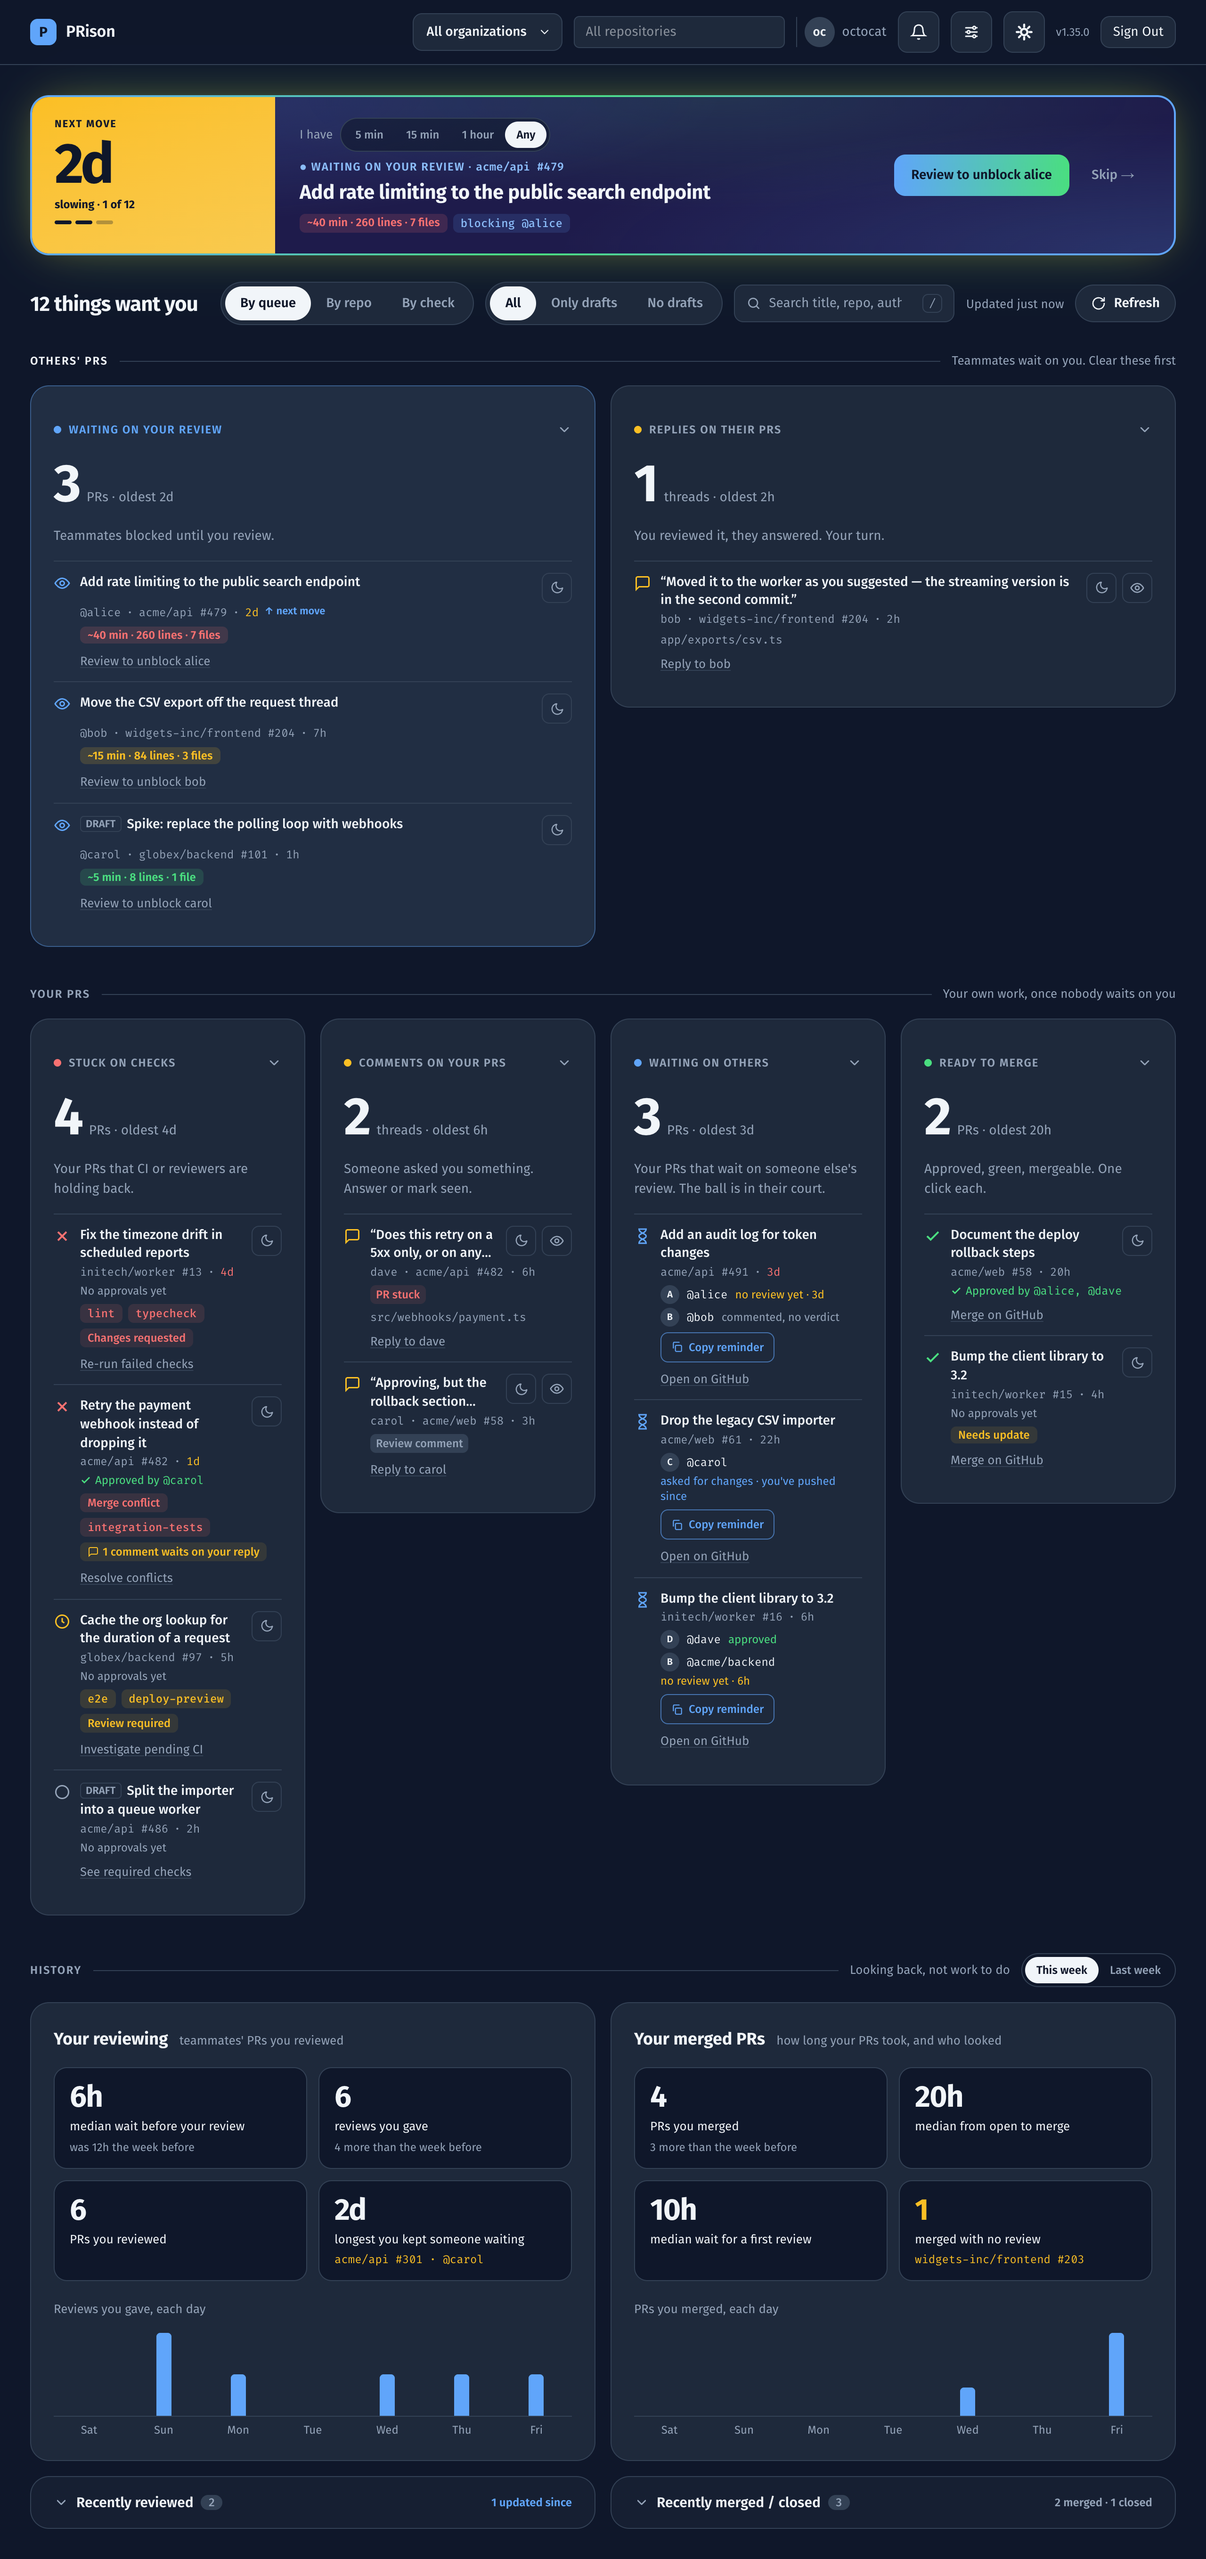
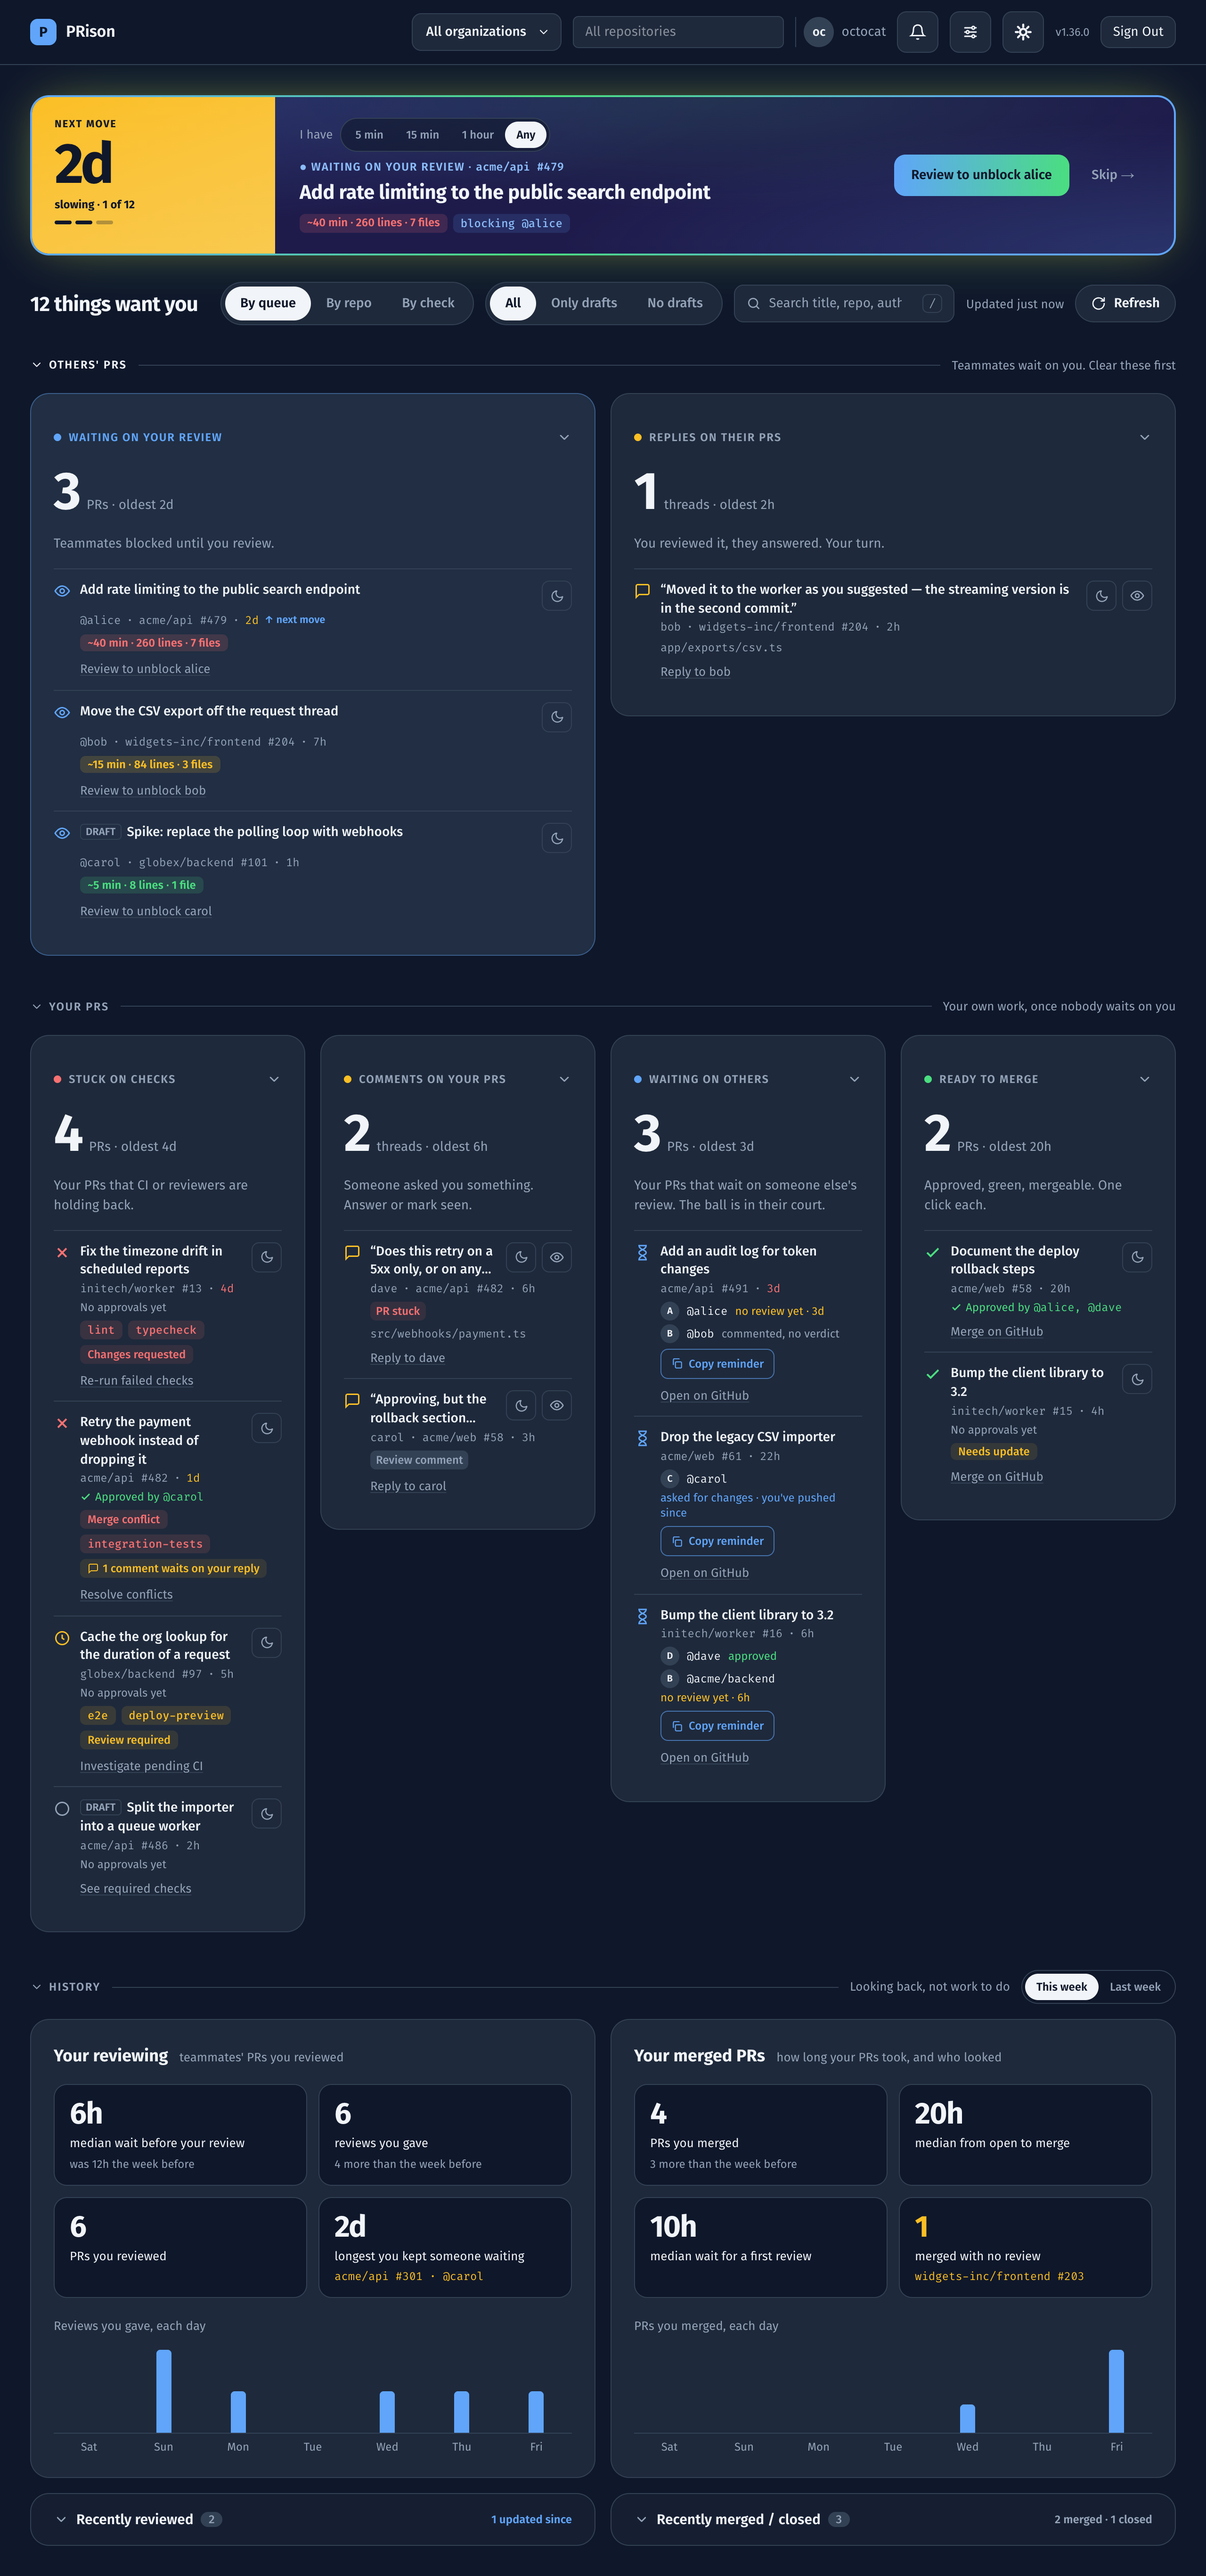
feat: fold the Others' PRs, Your PRs and History sections whole
Each section header is now a toggle, like the history panels, and the
folded sections are remembered across reloads (prison.foldedSides).

diff --git a/components/Dashboard.tsx b/components/Dashboard.tsx
@@ -290,6 +290,8 @@ export function Dashboard({ orgs, login }: DashboardProps) {
   // and reveals a page at a time.
   const [reviewedOpen, setReviewedOpen] = useState(false);
   const [reviewedVisible, setReviewedVisible] = useState(ARCHIVE_PAGE_SIZE);
+  // The three board sides the user folded away ("others", "mine", "history").
+  const [foldedSides, setFoldedSides] = useState<string[]>([]);
   const [partial, setPartial] = useState(false);
   const [isPending, startTransition] = useTransition();
 
@@ -606,6 +608,7 @@ export function Dashboard({ orgs, login }: DashboardProps) {
     const storedIgnored = localStorage.getItem("prison.ignoredChecks");
     const storedClosedOpen = localStorage.getItem("prison.closedOpen");
     const storedReviewedOpen = localStorage.getItem("prison.reviewedOpen");
+    const storedFoldedSides = localStorage.getItem("prison.foldedSides");
     const storedTimeBudget = localStorage.getItem("prison.timeBudget");
     const storedSnoozes = localStorage.getItem("prison.snoozes");
     const storedLimits = localStorage.getItem("prison.limits");
@@ -661,6 +664,10 @@ export function Dashboard({ orgs, login }: DashboardProps) {
       if (storedClosedOpen === "true") {
         setClosedOpen(true);
       }
+      try {
+        const sides: unknown = JSON.parse(storedFoldedSides ?? "[]");
+        if (Array.isArray(sides)) setFoldedSides(sides.filter((x) => typeof x === "string"));
+      } catch {}
       if (storedReviewedOpen === "true") {
         setReviewedOpen(true);
       }
@@ -798,6 +805,11 @@ export function Dashboard({ orgs, login }: DashboardProps) {
     if (!hydrated) return;
     localStorage.setItem("prison.reviewedOpen", String(reviewedOpen));
   }, [reviewedOpen, hydrated]);
+
+  useEffect(() => {
+    if (!hydrated) return;
+    localStorage.setItem("prison.foldedSides", JSON.stringify(foldedSides));
+  }, [foldedSides, hydrated]);
 
   useEffect(() => {
     if (!hydrated) return;
@@ -1476,6 +1488,35 @@ export function Dashboard({ orgs, login }: DashboardProps) {
       />
     </div>
   );
+  // Folds a whole side of the board, like the history panels' headers do.
+  const sideToggle = (key: string, title: string) => {
+    const open = !foldedSides.includes(key);
+    return (
+      <button
+        type="button"
+        aria-expanded={open}
+        aria-controls={`side-${key}`}
+        onClick={() => setFoldedSides((f) => (open ? [...f, key] : f.filter((k) => k !== key)))}
+        className="flex min-h-7 cursor-pointer items-center gap-1.5 rounded-md uppercase transition-colors hover:text-accent focus-visible:ring-2 focus-visible:ring-accent focus-visible:outline-none"
+      >
+        <svg
+          aria-hidden="true"
+          className={`shrink-0 transition-transform ${open ? "" : "-rotate-90"}`}
+          width="14"
+          height="14"
+          viewBox="0 0 24 24"
+          fill="none"
+          stroke="currentColor"
+          strokeWidth="2"
+          strokeLinecap="round"
+          strokeLinejoin="round"
+        >
+          <path d="m6 9 6 6 6-6" />
+        </svg>
+        {title}
+      </button>
+    );
+  };
   return (
     <div className="flex min-h-screen flex-col bg-background">
       <Header
@@ -1730,12 +1771,13 @@ export function Dashboard({ orgs, login }: DashboardProps) {
         <section aria-labelledby="others-heading" className="flex flex-col gap-4">
           <div className="flex items-center gap-3">
             <h2 id="others-heading" className="text-xs font-semibold tracking-[0.1em] text-foreground">
-              OTHERS&apos; PRS
+              {sideToggle("others", "OTHERS' PRS")}
             </h2>
             <span aria-hidden="true" className="h-px flex-1 bg-border" />
             <span className="text-[13px] text-muted">Teammates wait on you. Clear these first</span>
           </div>
-          <div className="grid grid-cols-1 items-start gap-4 lg:grid-cols-2">
+          {!foldedSides.includes("others") && (
+          <div id="side-others" className="grid grid-cols-1 items-start gap-4 lg:grid-cols-2">
             <div className="flex flex-col gap-3">
               {budgetSpent === undefined && reviewError && (
                 <div className="flex items-center justify-between rounded-md border border-danger/30 bg-danger/10 px-4 py-3 text-sm text-danger">
@@ -1801,16 +1843,18 @@ export function Dashboard({ orgs, login }: DashboardProps) {
               visible: visibleComments.filter((c) => c.viewerStarted),
             })}
           </div>
+          )}
         </section>
         <section aria-labelledby="mine-heading" className="flex flex-col gap-4 pt-3">
           <div className="flex items-center gap-3">
             <h2 id="mine-heading" className="text-xs font-semibold tracking-[0.1em] text-muted">
-              YOUR PRS
+              {sideToggle("mine", "YOUR PRS")}
             </h2>
             <span aria-hidden="true" className="h-px flex-1 bg-border" />
             <span className="text-[13px] text-muted">Your own work, once nobody waits on you</span>
           </div>
-          <div className="grid grid-cols-1 items-start gap-4 md:grid-cols-2 xl:grid-cols-4">
+          {!foldedSides.includes("mine") && (
+          <div id="side-mine" className="grid grid-cols-1 items-start gap-4 md:grid-cols-2 xl:grid-cols-4">
             <div className="flex flex-col gap-3">
               {budgetSpent === undefined && stuckError && (
                 <div className="flex items-center justify-between rounded-md border border-danger/30 bg-danger/10 px-4 py-3 text-sm text-danger">
@@ -2147,13 +2191,14 @@ export function Dashboard({ orgs, login }: DashboardProps) {
               />
             </div>
           </div>
+          )}
         </section>
         {/* History: looking back, not work to do, so it stays below the work and
             quieter than the columns above on purpose. */}
         <section aria-labelledby="history-heading" className="flex flex-col gap-4 pt-3">
           <div className="flex items-center gap-3">
             <h2 id="history-heading" className="text-xs font-semibold tracking-[0.1em] text-muted">
-              HISTORY
+              {sideToggle("history", "HISTORY")}
             </h2>
             <span aria-hidden="true" className="h-px flex-1 bg-border" />
             <span className="text-[13px] text-muted">Looking back, not work to do</span>
@@ -2175,7 +2220,8 @@ export function Dashboard({ orgs, login }: DashboardProps) {
           </div>
           {/* Two sides, matching the board above: your reviewing on the left,
               your own PRs on the right. One week picker for both. */}
-          <div className="grid grid-cols-1 items-start gap-4 lg:grid-cols-2">
+          {!foldedSides.includes("history") && (
+          <div id="side-history" className="grid grid-cols-1 items-start gap-4 lg:grid-cols-2">
             <div className="flex flex-col gap-4">
               <WeekCard facts={week} now={new Date()} error={weekError} offset={weekOffset} />
               <ArchiveSection
@@ -2270,6 +2316,7 @@ export function Dashboard({ orgs, login }: DashboardProps) {
               </ArchiveSection>
             </div>
           </div>
+          )}
         </section>
       </main>
     </div>

diff --git a/components/Dashboard.test.tsx b/components/Dashboard.test.tsx
@@ -3251,6 +3251,25 @@ describe("Dashboard — awaiting your reply", () => {
     );
   });
 
+  it("folds a whole board side and remembers it", async () => {
+    global.fetch = fetchWithClosed(makeClosed(3));
+    const { unmount } = render(<Dashboard orgs={ORGS} login="testuser" />);
+    await waitFor(() =>
+      expect(screen.getByTestId("closed-count-badge")).toHaveTextContent("3"),
+    );
+    fireEvent.click(screen.getByRole("button", { name: "HISTORY" }));
+    expect(screen.queryByTestId("closed-count-badge")).not.toBeInTheDocument();
+    await waitFor(() =>
+      expect(localStorage.getItem("prison.foldedSides")).toBe('["history"]'),
+    );
+    unmount();
+    render(<Dashboard orgs={ORGS} login="testuser" />);
+    const toggle = await screen.findByRole("button", { name: "HISTORY" });
+    await waitFor(() => expect(toggle).toHaveAttribute("aria-expanded", "false"));
+    fireEvent.click(toggle);
+    expect(await screen.findByTestId("closed-count-badge")).toBeInTheDocument();
+  });
+
   it("hydrates the closed section open from localStorage", async () => {
     localStorage.setItem("prison.closedOpen", "true");
     global.fetch = fetchWithClosed(makeClosed(2));

diff --git a/README.md b/README.md
@@ -167,7 +167,9 @@ Both live in this browser and cost nothing from GitHub.
   `acme 482` finds that PR. `/` jumps to it.
 - **Scope** to all of it, your personal account, one organization, or one
   repository. The scope narrows the GitHub search itself.
-- **Everything folds** by its header, keeping its count, for the sitting.
+- **Everything folds** by its header, keeping its count, for the sitting. The
+  three sections (**Others' PRs**, **Your PRs**, **History**) fold whole, and
+  stay folded across reloads.
 
 ### GitHub's API budget
 
